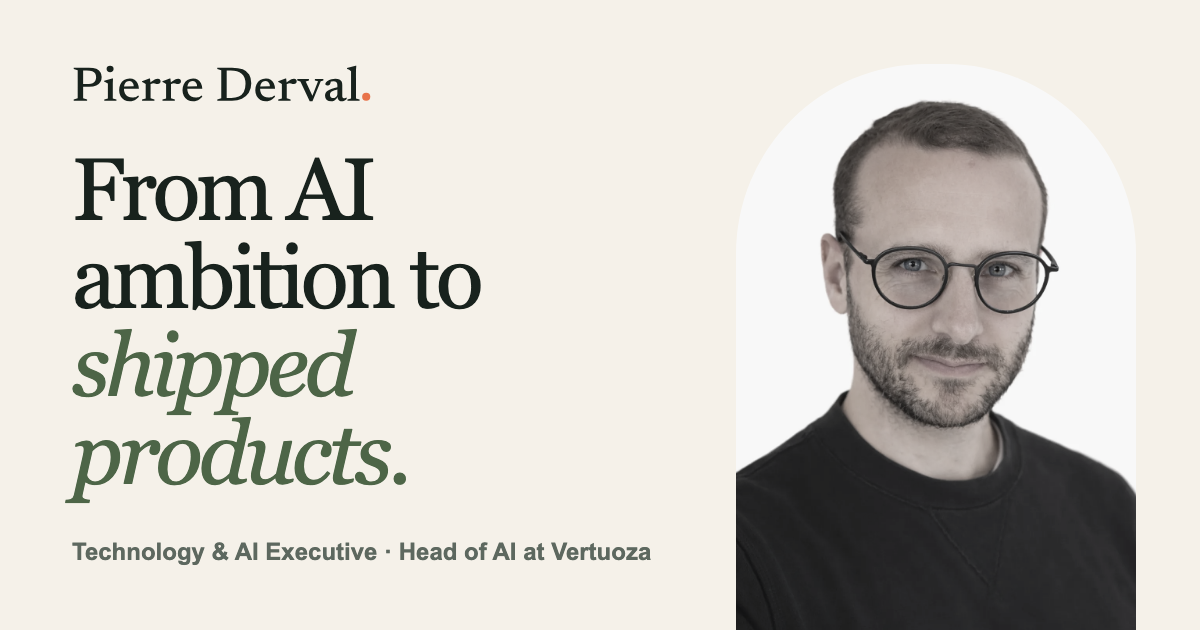
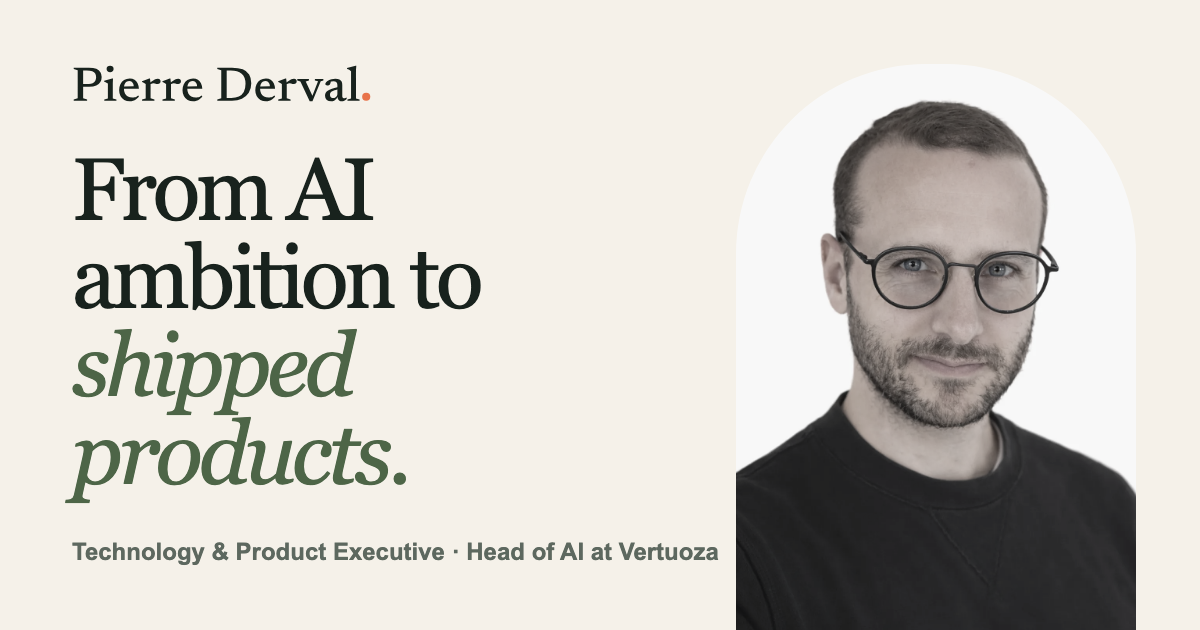
content: align the site headline and share image with the CV (Technology & Product Executive)

Changed region(s): [[0.185, 0.8444, 0.6167, 0.9048]]

diff --git a/src/data/site.ts b/src/data/site.ts
@@ -118,13 +118,13 @@ export type SiteData = {
 
 export const siteData = {
   seo: {
-    title: "Pierre Derval | Technology & AI Executive, Head of AI at Vertuoza",
+    title: "Pierre Derval | Technology & Product Executive, Head of AI at Vertuoza",
     description:
-      "Pierre Derval is a technology and AI executive and Head of AI at Vertuoza, with 20+ years leading engineering, platform and AI in enterprise software.",
+      "Pierre Derval is a technology and product executive: six years as CPTO of CluedIn, now Head of AI and Business Transformation at Vertuoza. 20+ years leading engineering, product and AI in enterprise software.",
     siteName: "Pierre Derval",
     locale: "en_BE",
     ogImage: "/og-image.png",
-    ogImageAlt: "Pierre Derval, Technology & AI Executive and Head of AI at Vertuoza",
+    ogImageAlt: "Pierre Derval, Technology & Product Executive and Head of AI at Vertuoza",
     ogImageWidth: 1200,
     ogImageHeight: 630,
     favicon: "/favicon.svg?v=2"
@@ -139,7 +139,7 @@ export const siteData = {
   hero: {
     name: "Pierre Derval",
     brandLine: "Strategy. Craft. Delivery.",
-    eyebrow: "Technology & AI Executive · Belgium",
+    eyebrow: "Technology & Product Executive · Belgium",
     supportingText:
       "I lead engineering, platform and AI, with a product eye, to turn complex technology into products people use.",
     primaryCtaLabel: "Discuss your challenge",
